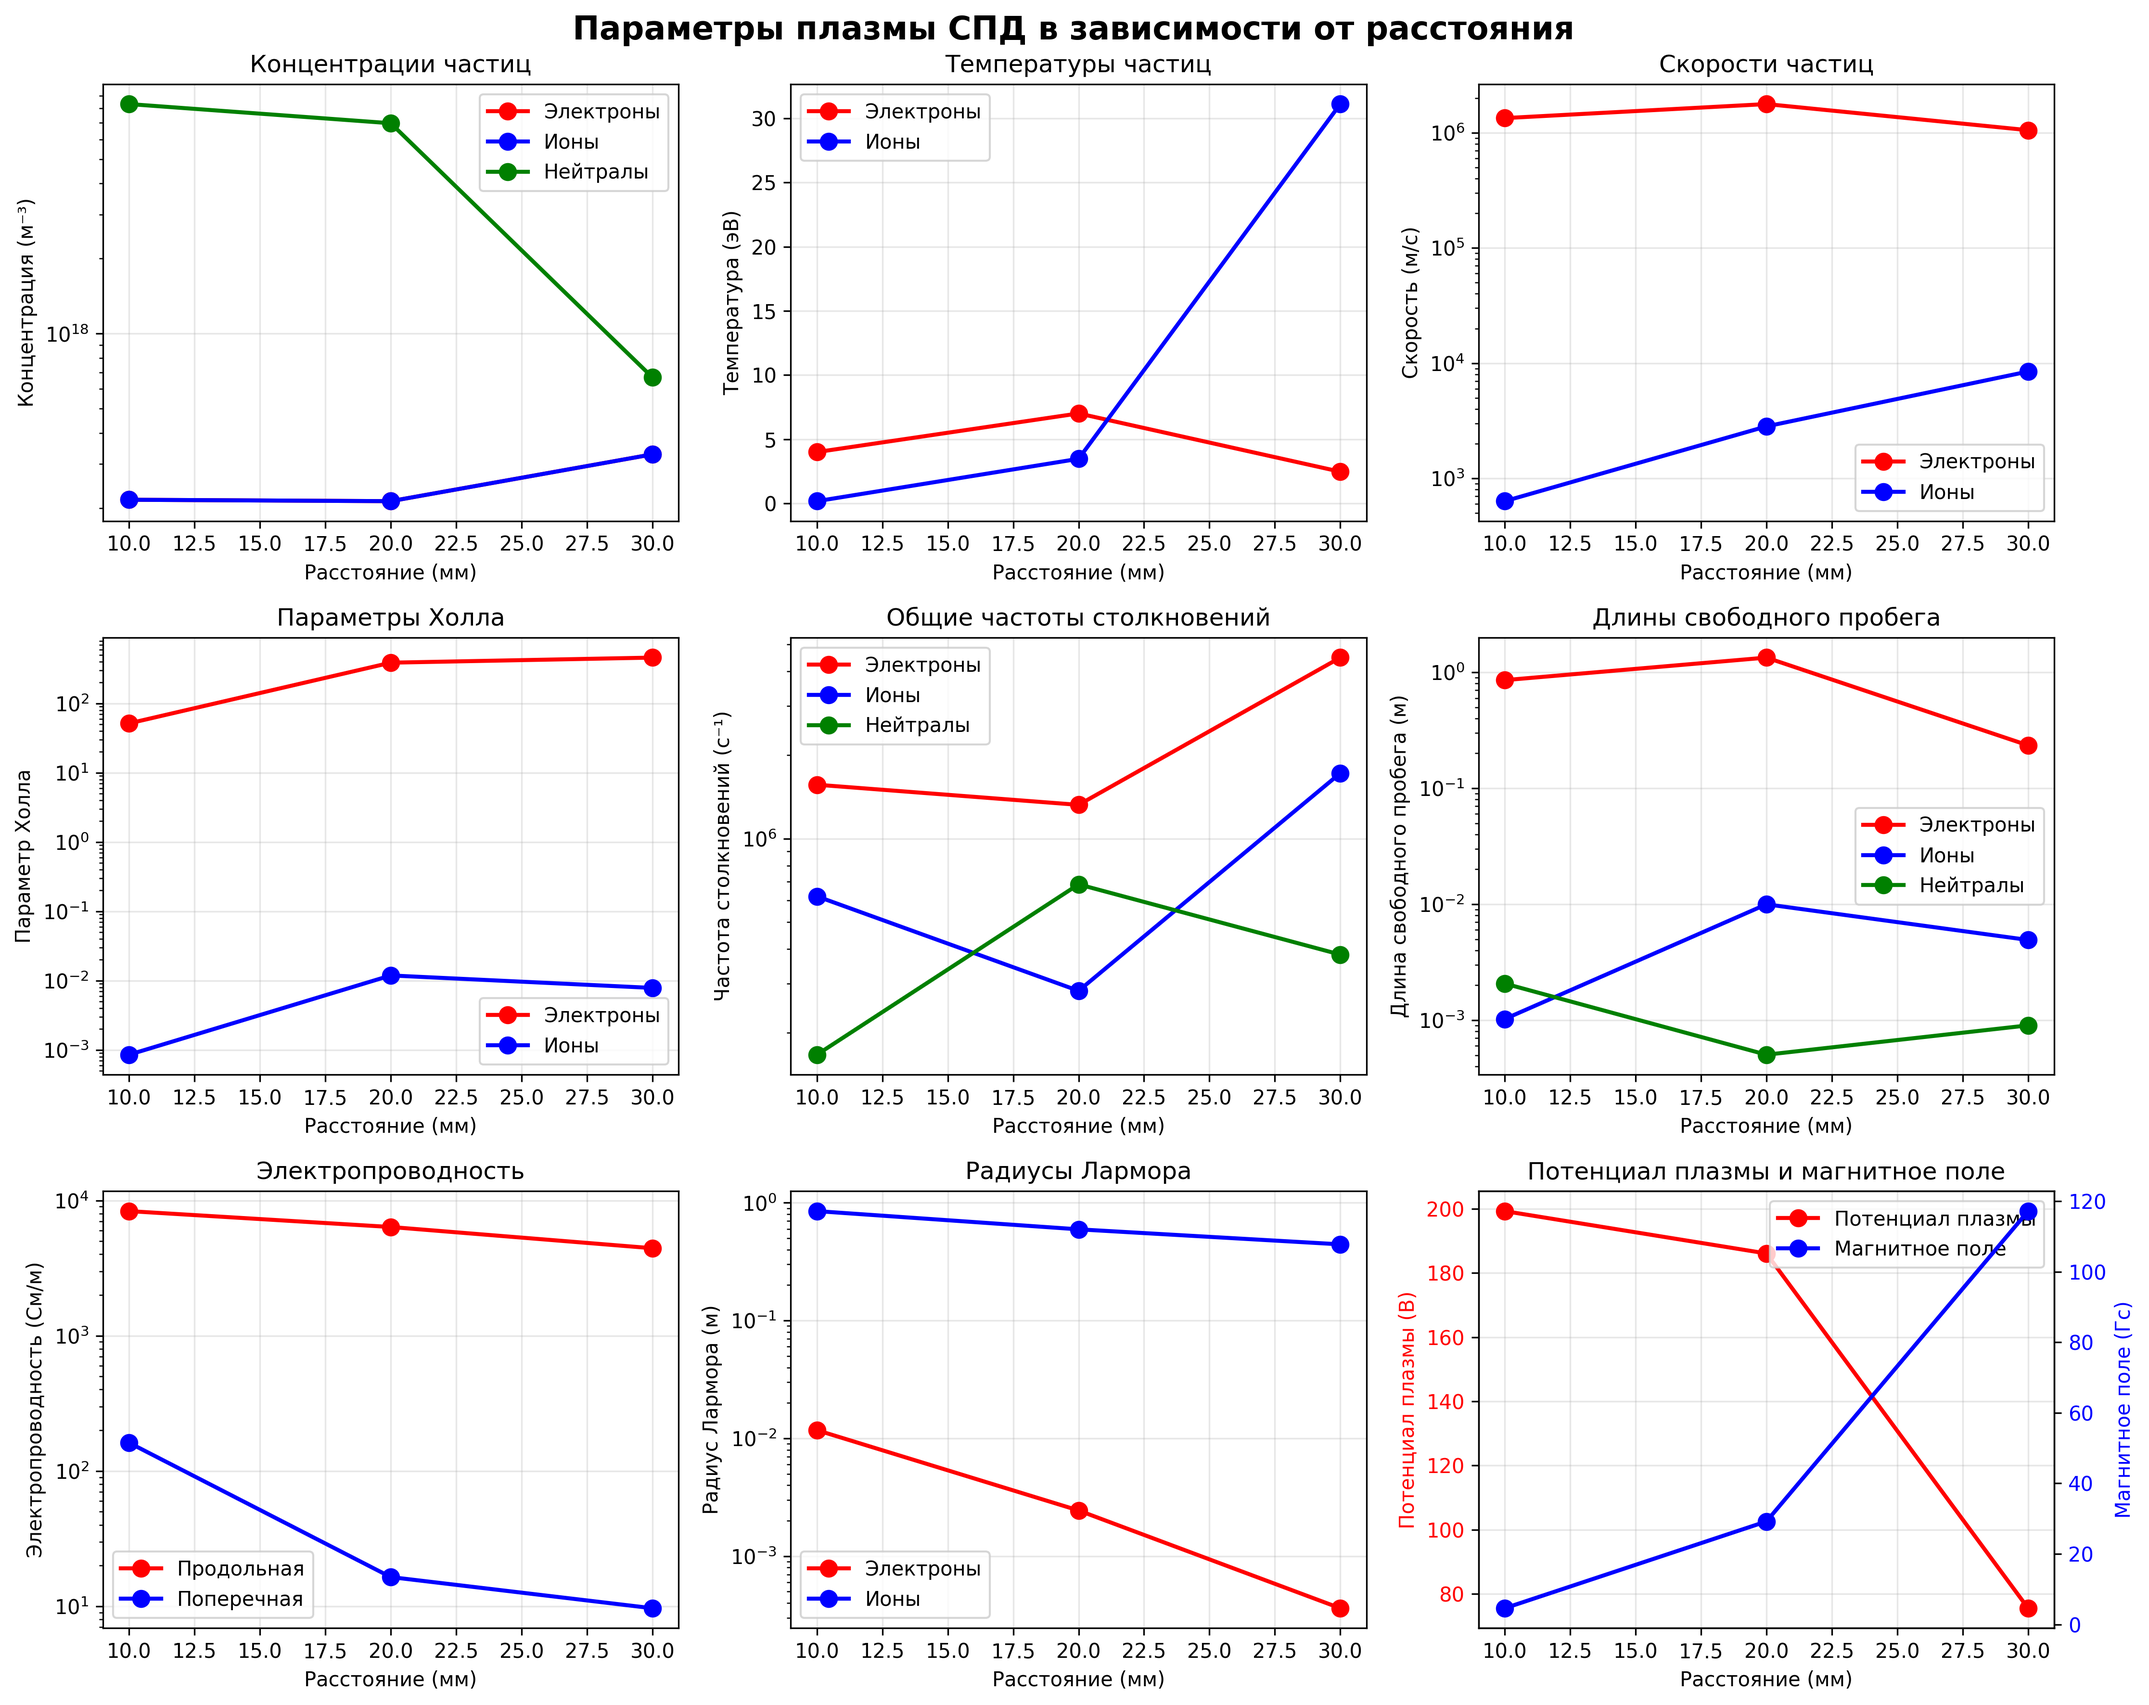
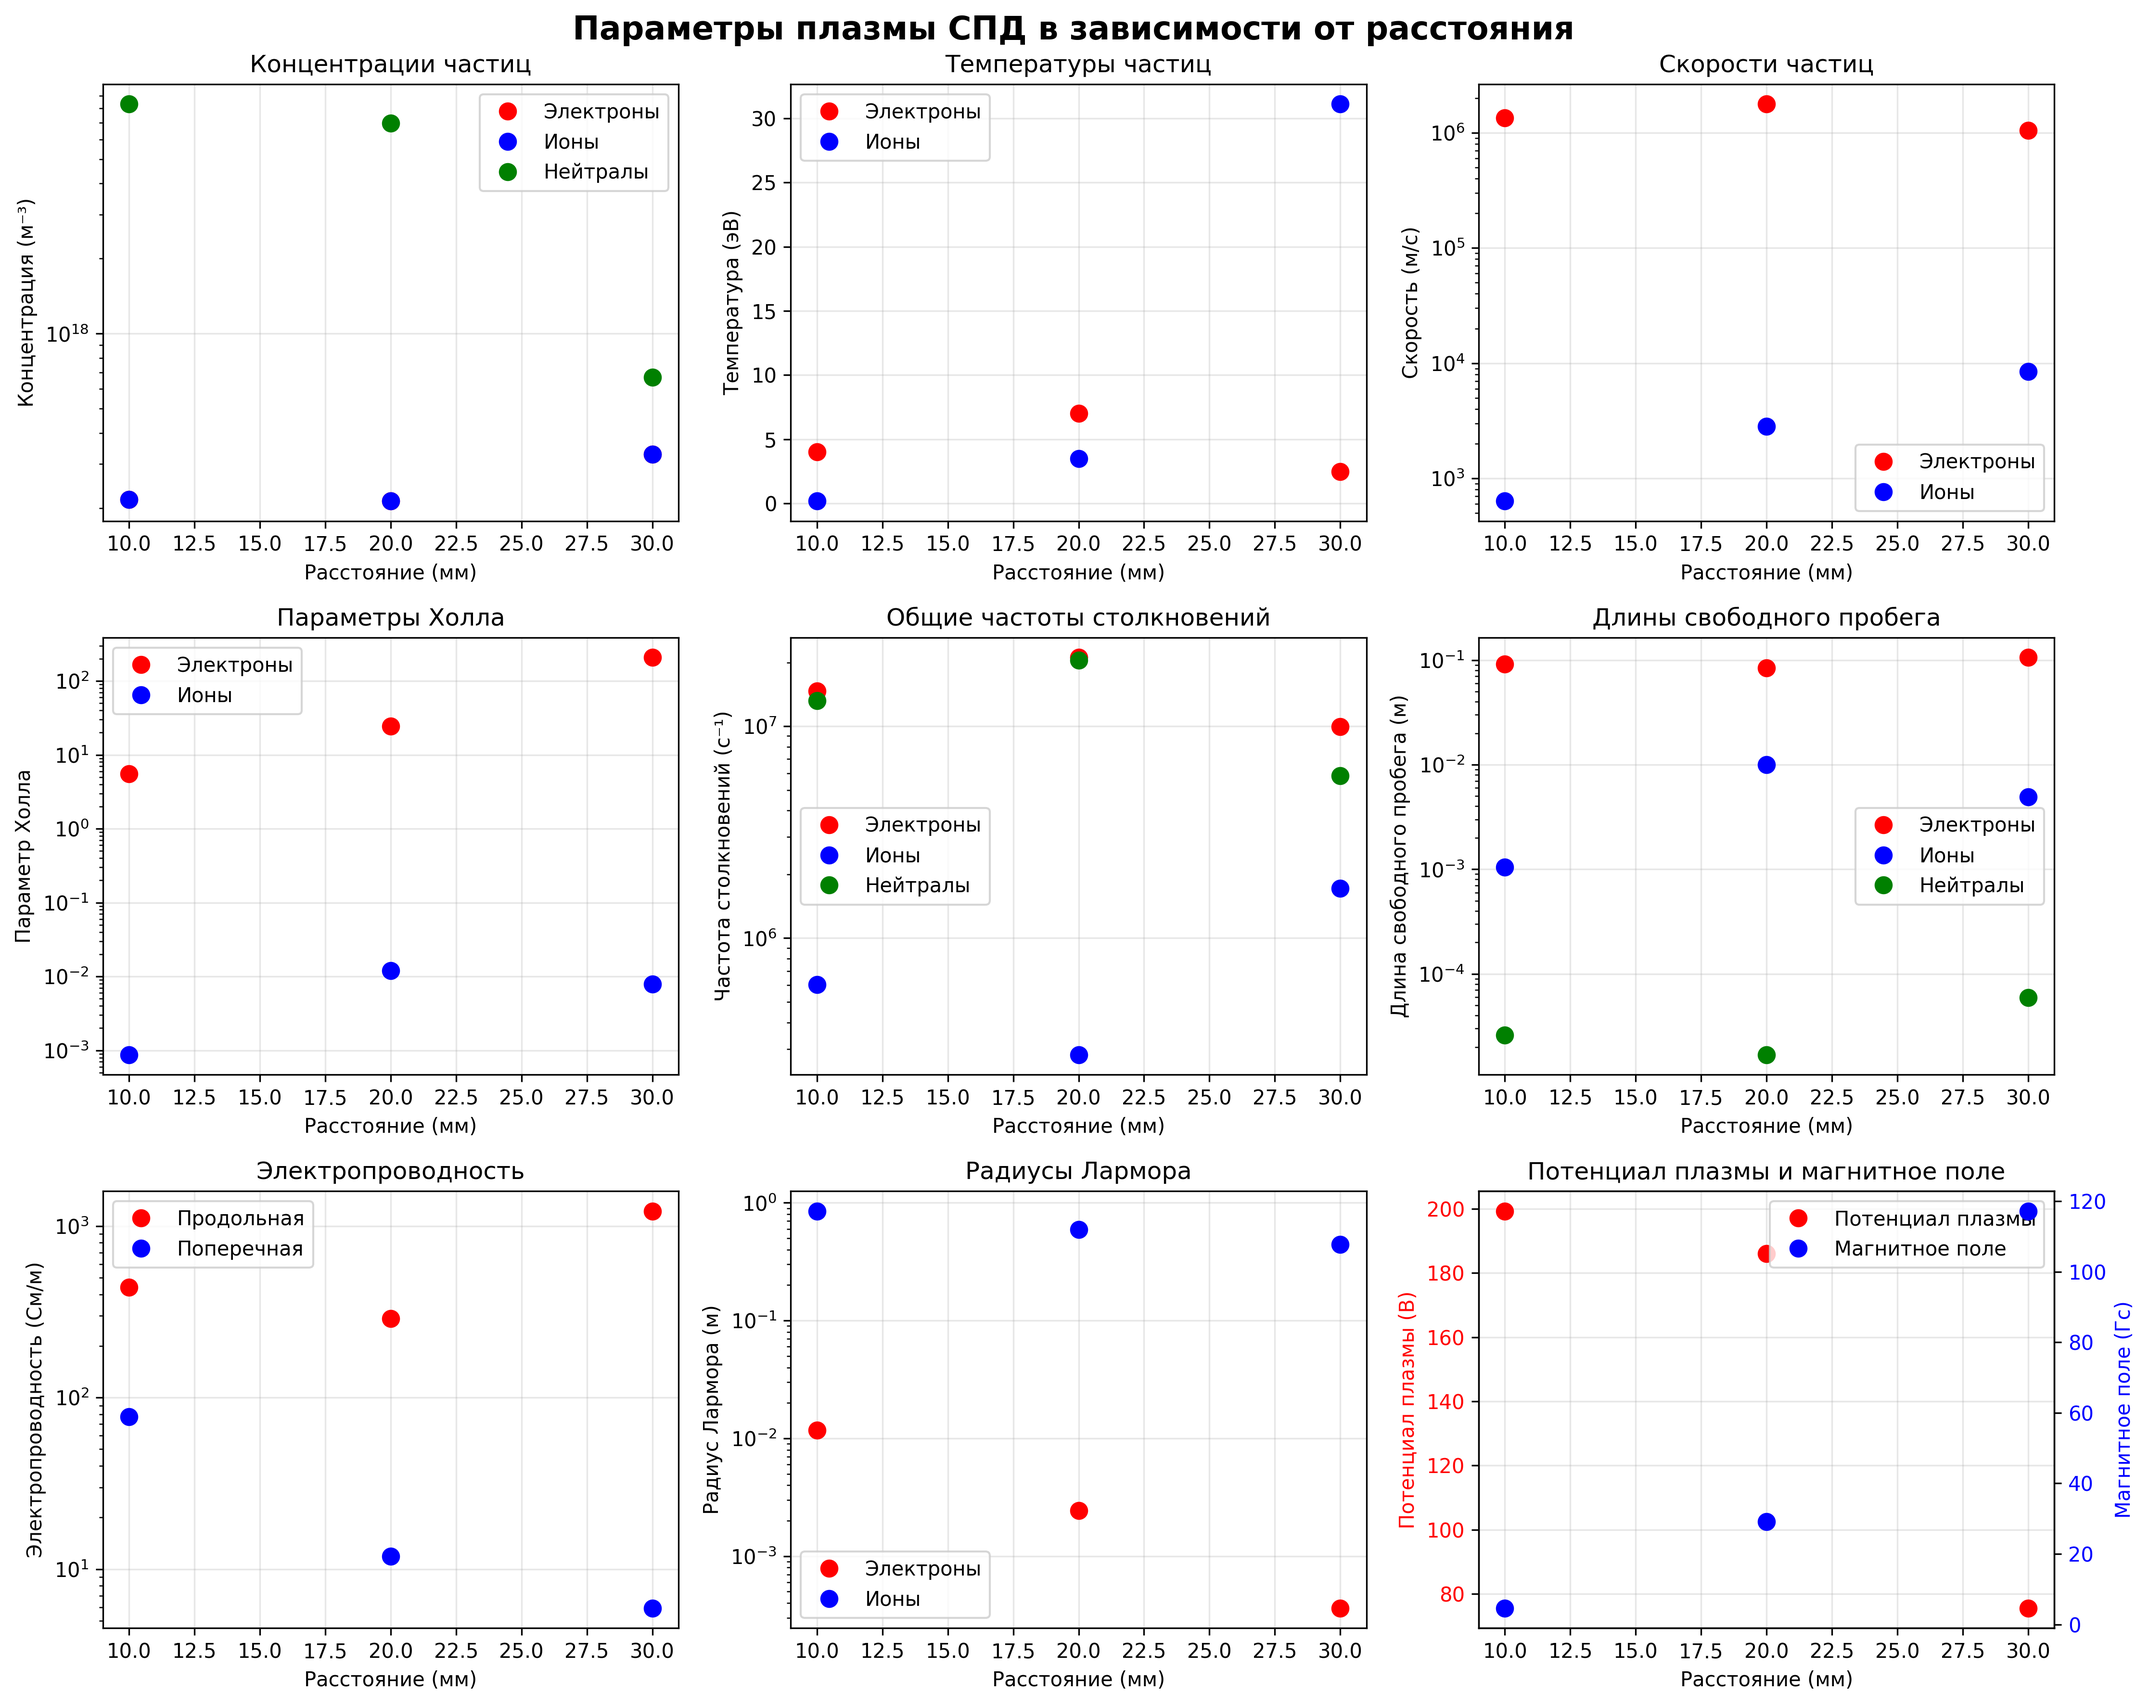
fixed e-n frequency

diff --git a/graphics_results.py b/graphics_results.py
@@ -136,9 +136,9 @@ def plot_results():
     
     # График 1: Концентрации частиц
     ax1 = axes[0, 0]
-    ax1.semilogy(distances, electron_concentration, 'ro-', label='Электроны', linewidth=2, markersize=8)
-    ax1.semilogy(distances, ion_concentration, 'bo-', label='Ионы', linewidth=2, markersize=8)
-    ax1.semilogy(distances, neutral_concentration, 'go-', label='Нейтралы', linewidth=2, markersize=8)
+    ax1.semilogy(distances, electron_concentration, 'ro-', label='Электроны', linewidth=0, markersize=8)
+    ax1.semilogy(distances, ion_concentration, 'bo-', label='Ионы', linewidth=0, markersize=8)
+    ax1.semilogy(distances, neutral_concentration, 'go-', label='Нейтралы', linewidth=0, markersize=8)
     ax1.set_xlabel('Расстояние (мм)')
     ax1.set_ylabel('Концентрация (м⁻³)')
     ax1.set_title('Концентрации частиц')
@@ -147,8 +147,8 @@ def plot_results():
     
     # График 2: Температуры
     ax2 = axes[0, 1]
-    ax2.plot(distances, electron_temperature, 'ro-', label='Электроны', linewidth=2, markersize=8)
-    ax2.plot(distances, ion_temperature, 'bo-', label='Ионы', linewidth=2, markersize=8)
+    ax2.plot(distances, electron_temperature, 'ro-', label='Электроны', linewidth=0, markersize=8)
+    ax2.plot(distances, ion_temperature, 'bo-', label='Ионы', linewidth=0, markersize=8)
     ax2.set_xlabel('Расстояние (мм)')
     ax2.set_ylabel('Температура (эВ)')
     ax2.set_title('Температуры частиц')
@@ -157,8 +157,8 @@ def plot_results():
     
     # График 3: Скорости частиц
     ax3 = axes[0, 2]
-    ax3.semilogy(distances, electron_velocity, 'ro-', label='Электроны', linewidth=2, markersize=8)
-    ax3.semilogy(distances, ion_velocity, 'bo-', label='Ионы', linewidth=2, markersize=8)
+    ax3.semilogy(distances, electron_velocity, 'ro-', label='Электроны', linewidth=0, markersize=8)
+    ax3.semilogy(distances, ion_velocity, 'bo-', label='Ионы', linewidth=0, markersize=8)
     ax3.set_xlabel('Расстояние (мм)')
     ax3.set_ylabel('Скорость (м/с)')
     ax3.set_title('Скорости частиц')
@@ -167,8 +167,8 @@ def plot_results():
     
     # График 4: Параметры Холла
     ax4 = axes[1, 0]
-    ax4.semilogy(distances, electron_hall_parameter, 'ro-', label='Электроны', linewidth=2, markersize=8)
-    ax4.semilogy(distances, ion_hall_parameter, 'bo-', label='Ионы', linewidth=2, markersize=8)
+    ax4.semilogy(distances, electron_hall_parameter, 'ro-', label='Электроны', linewidth=0, markersize=8)
+    ax4.semilogy(distances, ion_hall_parameter, 'bo-', label='Ионы', linewidth=0, markersize=8)
     ax4.set_xlabel('Расстояние (мм)')
     ax4.set_ylabel('Параметр Холла')
     ax4.set_title('Параметры Холла')
@@ -177,9 +177,9 @@ def plot_results():
     
     # График 5: Частоты столкновений
     ax5 = axes[1, 1]
-    ax5.semilogy(distances, overall_electron_collision_frequency, 'ro-', label='Электроны', linewidth=2, markersize=8)
-    ax5.semilogy(distances, overall_ion_collision_frequency, 'bo-', label='Ионы', linewidth=2, markersize=8)
-    ax5.semilogy(distances, overall_neutral_collision_frequency, 'go-', label='Нейтралы', linewidth=2, markersize=8)
+    ax5.semilogy(distances, overall_electron_collision_frequency, 'ro-', label='Электроны', linewidth=0, markersize=8)
+    ax5.semilogy(distances, overall_ion_collision_frequency, 'bo-', label='Ионы', linewidth=0, markersize=8)
+    ax5.semilogy(distances, overall_neutral_collision_frequency, 'go-', label='Нейтралы', linewidth=0, markersize=8)
     ax5.set_xlabel('Расстояние (мм)')
     ax5.set_ylabel('Частота столкновений (с⁻¹)')
     ax5.set_title('Общие частоты столкновений')
@@ -188,9 +188,9 @@ def plot_results():
     
     # График 6: Длины свободного пробега
     ax6 = axes[1, 2]
-    ax6.semilogy(distances, electron_free_path, 'ro-', label='Электроны', linewidth=2, markersize=8)
-    ax6.semilogy(distances, ion_free_path, 'bo-', label='Ионы', linewidth=2, markersize=8)
-    ax6.semilogy(distances, neutral_free_path, 'go-', label='Нейтралы', linewidth=2, markersize=8)
+    ax6.semilogy(distances, electron_free_path, 'ro-', label='Электроны', linewidth=0, markersize=8)
+    ax6.semilogy(distances, ion_free_path, 'bo-', label='Ионы', linewidth=0, markersize=8)
+    ax6.semilogy(distances, neutral_free_path, 'go-', label='Нейтралы', linewidth=0, markersize=8)
     ax6.set_xlabel('Расстояние (мм)')
     ax6.set_ylabel('Длина свободного пробега (м)')
     ax6.set_title('Длины свободного пробега')
@@ -199,8 +199,8 @@ def plot_results():
     
     # График 7: Электропроводность
     ax7 = axes[2, 0]
-    ax7.semilogy(distances, electric_conductivity_longitudal, 'ro-', label='Продольная', linewidth=2, markersize=8)
-    ax7.semilogy(distances, electric_conductivity_transversal, 'bo-', label='Поперечная', linewidth=2, markersize=8)
+    ax7.semilogy(distances, electric_conductivity_longitudal, 'ro-', label='Продольная', linewidth=0, markersize=8)
+    ax7.semilogy(distances, electric_conductivity_transversal, 'bo-', label='Поперечная', linewidth=0, markersize=8)
     ax7.set_xlabel('Расстояние (мм)')
     ax7.set_ylabel('Электропроводность (См/м)')
     ax7.set_title('Электропроводность')
@@ -209,8 +209,8 @@ def plot_results():
     
     # График 8: Радиусы Лармора
     ax8 = axes[2, 1]
-    ax8.semilogy(distances, electron_larmor_radius, 'ro-', label='Электроны', linewidth=2, markersize=8)
-    ax8.semilogy(distances, ion_larmor_radius, 'bo-', label='Ионы', linewidth=2, markersize=8)
+    ax8.semilogy(distances, electron_larmor_radius, 'ro-', label='Электроны', linewidth=0, markersize=8)
+    ax8.semilogy(distances, ion_larmor_radius, 'bo-', label='Ионы', linewidth=0, markersize=8)
     ax8.set_xlabel('Расстояние (мм)')
     ax8.set_ylabel('Радиус Лармора (м)')
     ax8.set_title('Радиусы Лармора')
@@ -220,13 +220,13 @@ def plot_results():
     # График 9: Потенциал плазмы и магнитное поле
     ax9 = axes[2, 2]
     ax9_primary = ax9
-    ax9_primary.plot(distances, plasm_potential, 'ro-', label='Потенциал плазмы', linewidth=2, markersize=8)
+    ax9_primary.plot(distances, plasm_potential, 'ro-', label='Потенциал плазмы', linewidth=0, markersize=8)
     ax9_primary.set_xlabel('Расстояние (мм)')
     ax9_primary.set_ylabel('Потенциал плазмы (В)', color='red')
     ax9_primary.tick_params(axis='y', labelcolor='red')
     
     ax9_secondary = ax9_primary.twinx()
-    ax9_secondary.plot(distances, magnet_field, 'bo-', label='Магнитное поле', linewidth=2, markersize=8)
+    ax9_secondary.plot(distances, magnet_field, 'bo-', label='Магнитное поле', linewidth=0, markersize=8)
     ax9_secondary.set_ylabel('Магнитное поле (Гс)', color='blue')
     ax9_secondary.tick_params(axis='y', labelcolor='blue')
     

diff --git a/calculations.py b/calculations.py
@@ -107,7 +107,7 @@ recharge_cross_section = transport_cross_section_ions / 2
 # Частоты столкновений для электронов (с⁻¹)
 electron_electron_collision_frequency = (2) ** 0.5 * (qoulon_collision_cross_section_electron * electron_concentration * electron_velocity)
 electron_ion_collision_frequency = (qoulon_collision_cross_section_electron * ion_concentration * electron_velocity)
-electron_neutral_collision_frequency = 1 / (elastic_en_time + nonelastic_en_time)
+electron_neutral_collision_frequency = (1 / elastic_en_time) + (1 /nonelastic_en_time)
 
 overall_electron_collision_frequency = electron_electron_collision_frequency + electron_ion_collision_frequency + electron_neutral_collision_frequency
 
